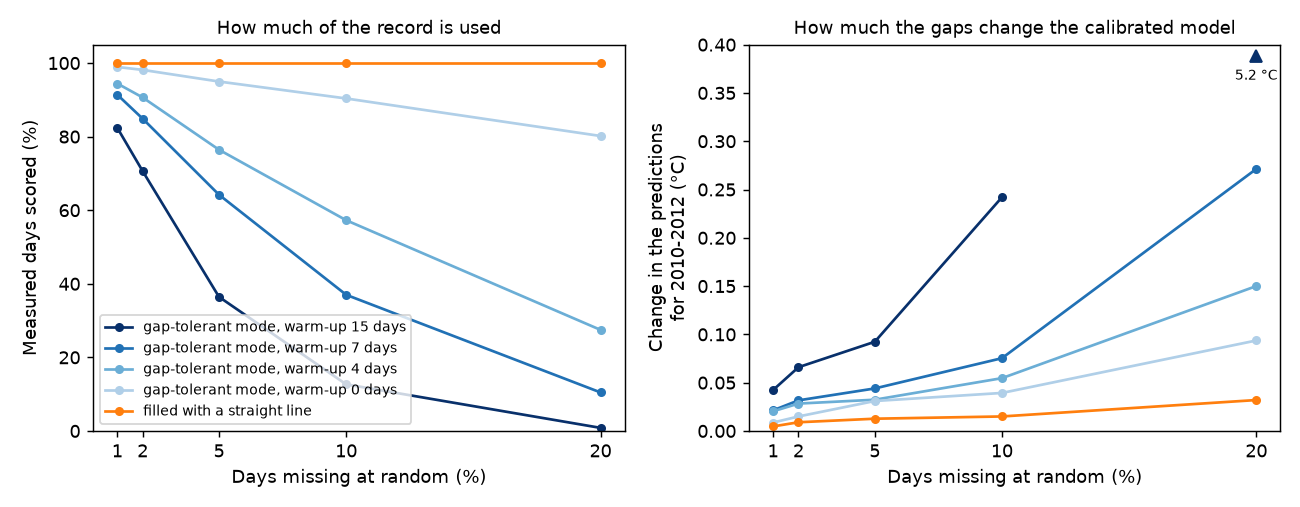
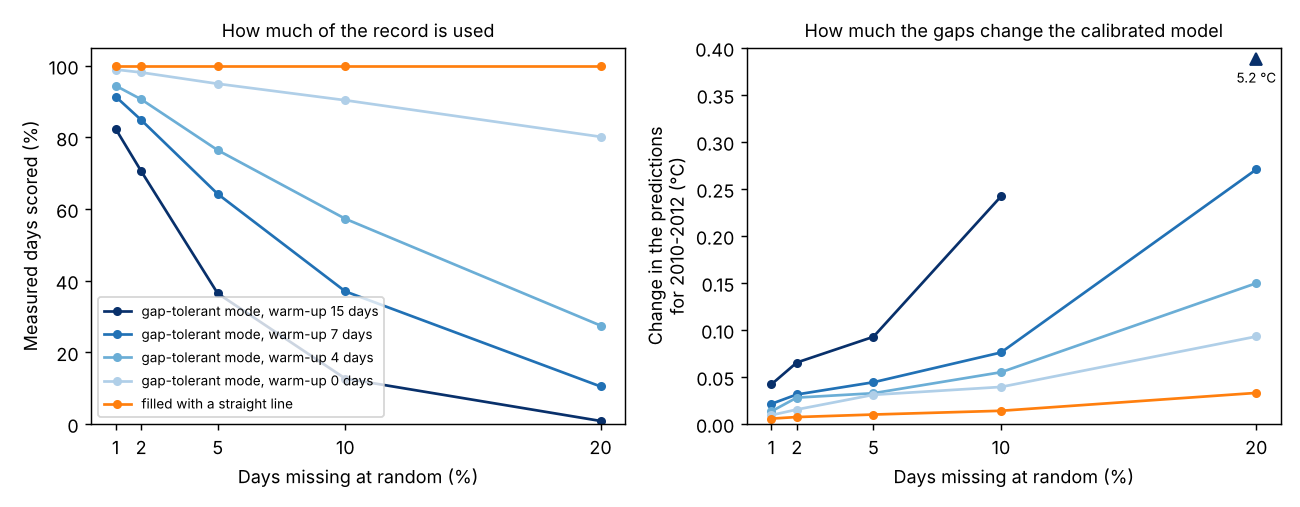
Example 05 rerun on 0.5.1, with the corrected gap study
The restart table and figure add the start of a gap-tolerant FORWARD run
(at rest under the day's conditions), forgotten within about 4 days like
the others. Other numbers follow the rerun.

Claude-Session: https://claude.ai/code/session_011cntwns3xnAFTLc6o2maxn

diff --git a/examples/05_gaps/README.md b/examples/05_gaps/README.md
@@ -143,7 +143,7 @@ For scale:
 
 - the model's typical error in those years is 0.78 °C;
 - calibrating the complete record again with other random seeds changes the
-  predictions by at most 0.004 °C.
+  predictions by at most 0.001 °C.
 
 (The error against the measurements is a blunter measure: it hardly moves for
 changes of a few hundredths of a degree.)
@@ -165,13 +165,15 @@ difference from a run without the restart:
 | Days after the restart | 0 | 1 | 2 | 3 | 4 | 5 |
 |---|---|---|---|---|---|---|
 | Restart from the measured water temperature | 0.49 °C | 0.15 °C | 0.05 °C | 0.02 °C | 0.01 °C | 0.00 °C |
-| Restart from the day-of-year average | 1.47 °C | 0.47 °C | 0.15 °C | 0.05 °C | 0.02 °C | 0.01 °C |
+| Restart from the day-of-year average | 1.47 °C | 0.46 °C | 0.15 °C | 0.05 °C | 0.02 °C | 0.01 °C |
+| Start at rest (a gap-tolerant `FORWARD` run) | 0.71 °C | 0.23 °C | 0.08 °C | 0.03 °C | 0.01 °C | 0.00 °C |
 
 *The mean difference from a run without the restart.*
 
 **Reading it.**
 
-- The Mentue forgets its restart within 3–4 days. The default warm-up,
+- The Mentue forgets its restart within 3–4 days, whichever way it starts. The
+  default warm-up,
   15 days, is about four times longer than this river needs.
 - The model's own equation gives this time: three "relaxation times", or 3/B
   days. B is how fast the water temperature returns to its balance
@@ -203,10 +205,10 @@ marks values off the scale.*
 
 | Gap | Gap-tolerant mode | Filled with a straight line | Filled with the seasonal average |
 |---|---|---|---|
-| a month | 0.01 °C (0.03) | 0.02 °C (0.03) | 0.01 °C (0.03) |
+| a month | 0.01 °C (0.03) | 0.02 °C (0.04) | 0.01 °C (0.03) |
 | a quarter | 0.02 °C (0.04) | 0.10 °C (0.12) | 0.06 °C (0.12) |
 | half a year | 0.03 °C (0.06) | 0.22 °C (0.49) | 0.07 °C (0.12) |
-| a year | 0.05 °C (0.07) | 1.14 °C (1.55) | 0.12 °C (0.16) |
+| a year | 0.05 °C (0.07) | 1.15 °C (1.55) | 0.12 °C (0.16) |
 
 *The change in the predictions for 2010–2012: the mean of the four placements,
 with the largest in brackets.*
@@ -249,8 +251,8 @@ off the scale.*
 | Measured days scored, warm-up 15 days (default) | 82% | 71% | 36% | 13% | 1% |
 | Measured days scored, warm-up 4 days | 94% | 91% | 76% | 57% | 27% |
 | Change in the predictions, warm-up 15 days | 0.04 °C | 0.07 °C | 0.09 °C | 0.24 °C | 5.2 °C (failed) |
-| Change in the predictions, warm-up 4 days | 0.02 °C | 0.03 °C | 0.03 °C | 0.06 °C | 0.15 °C |
-| Change in the predictions, filled with a straight line | 0.01 °C | 0.01 °C | 0.01 °C | 0.02 °C | 0.03 °C |
+| Change in the predictions, warm-up 4 days | 0.01 °C | 0.03 °C | 0.03 °C | 0.06 °C | 0.15 °C |
+| Change in the predictions, filled with a straight line | 0.01 °C | 0.01 °C | 0.01 °C | 0.01 °C | 0.03 °C |
 
 **Reading it.**
 
